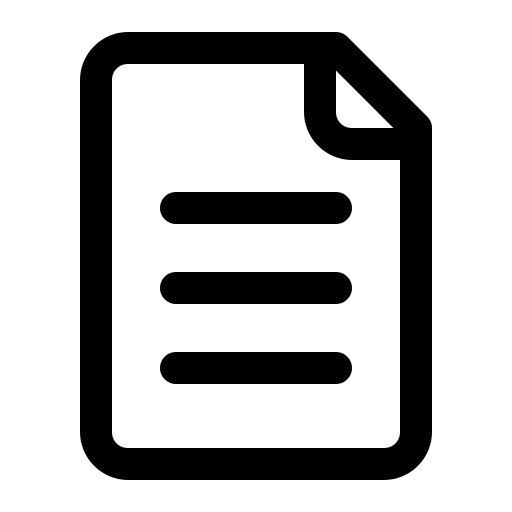
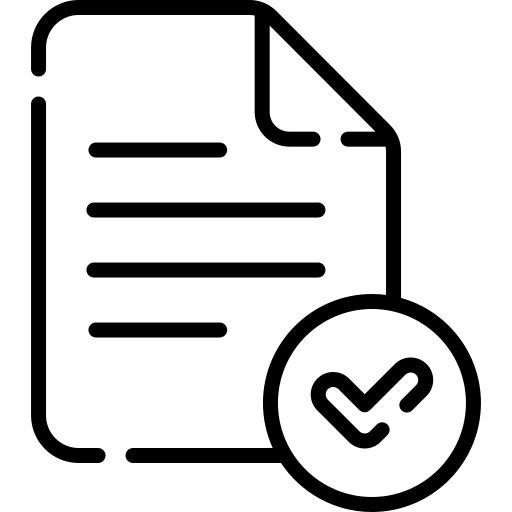
algumas mudanças nos icones e responsividade aplicada na index

diff --git a/styles/responsive.css b/styles/responsive.css
@@ -6,6 +6,7 @@
 
 body{
     font-family: "Open Sans",sans-serif;
+    /* height: 100vh; */
     /* Photo by Jess Bailey on Unsplash */
     background-image: url('../img/fundo.jpg');
     background-repeat: no-repeat;
@@ -47,7 +48,6 @@ nav .button-link{
     margin-right: 50px;
     text-decoration: none;
     font-weight: 600;
-    text-transform: uppercase;
     color: #003057;
     opacity: 0.8;
     transition: 0.5s ease-in-out;
@@ -222,8 +222,50 @@ footer .text{
     transition: 0.5s;
 }
 
+#confirm {
+    display: none;
+    background-color: #F3F5F6;
+    color: #003057;
+    border: none;
+    background: #F19820;
+    position: fixed;
+    width: 300px;
+    height: 200px;
+    border-radius: 8px;
+    left: 38%;
+    top: 20%;
+    box-sizing: border-box;
+    text-align: center;
+ }
+ #confirm button {
+    cursor: pointer;
+    border: none;
+    background: #003057;
+    width: 60px;
+    border-radius: 4px;
+    padding: 8px;
+    text-transform: uppercase;
+    font-size: 12px;
+    font-weight: 600;
+    color: #fff;
+    transition: 0.5s ease-in-out;
+ }
 
+ #confirm button:hover{
+    background: #0a4d85;
+    border-radius: 16px;
+    transition: 0.5s;
+ }
 
+ #confirm .message {
+    text-align: center;
+    font-size: 18px;
+    font-weight: bold;
+    margin-top: 30px;
+    padding: 5px;
+    margin-bottom: 20px;
+ }
+/* Responsividade */
 @media(min-width:768px) and (max-width:1024px){
     footer{
         margin-top: 30px;
@@ -286,7 +328,7 @@ footer .text{
         font-size: 15px;    
     }
 }
-@media(max-width:912px) {
+@media(min-width:912px) and (max-width:1368px){
     header{
         height: 130px;
     }

diff --git a/styles/home.css b/styles/home.css
@@ -85,7 +85,6 @@ main .head-large{
 
 .strong-text{
     color: #fccfa2;
-    /* color: #011e35; */
     font-size: 26px;
 }
 
@@ -98,7 +97,7 @@ main .head-large{
 }
 
 .in-second-header{
-    font-size: 24px;
+    font-size: min(3.5vw, 1.8rem);
     text-align: center;
 }
 
@@ -107,8 +106,8 @@ section{
 }
 
 section .mid-title{
-    margin: 120px 0 120px 90px;
-    font-size: 48px;
+    margin: 120px 0 120px 100px;
+    font-size: min(7vw, 3.6rem);
 }
 
 section .section-cards{
@@ -190,4 +189,19 @@ footer .text{
 .icons a:hover{
     color: #003057;
     transition: 0.5s;
+}
+
+
+
+@media (max-width:912px){
+    section .section-cards{
+        display: flex;
+        flex-direction: column;
+        align-items: center;
+    }
+
+    section .in-card{
+        margin-bottom: 20px;
+        margin-top: 20px;
+    }
 }

diff --git a/index.html b/index.html
@@ -56,7 +56,7 @@
                     </div>
                     <div class="in-card">
                         
-                            <img src="./img/proposta.png" alt="proposta"> 
+                            <img src="./img/document.png" alt="proposta"> 
                             <p>2. Receba uma proposta</p>
                             <p>Você receberá seu livro pré-diagramado, a proposta para publicação de sua obra podendo pagar à vista ou parcelado no cartão.</p>
                     </div>
